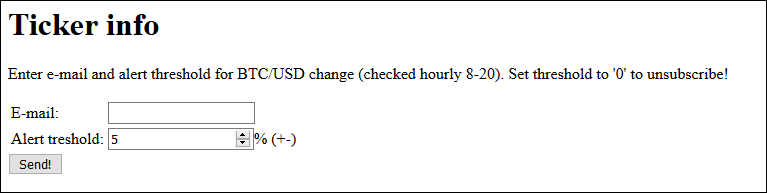
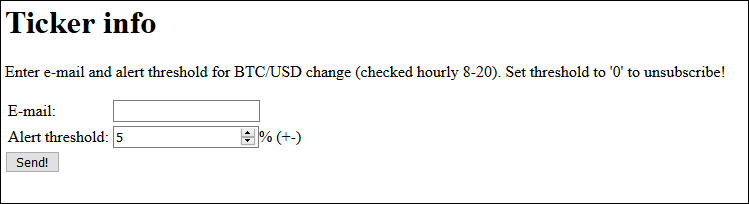
Typo

diff --git a/TickerInformator/Services/SubscriberService.cs b/TickerInformator/Services/SubscriberService.cs
@@ -25,7 +25,7 @@ namespace TickerInformator
                 PartitionKey = emailSplited[1],
                 RowKey = emailSplited[0],
                 Active = true,
-                AlertTreshold = submitInfo.AlertTreshold ?? 0
+                AlertThreshold = submitInfo.AlertThreshold ?? 0
             };
             if (existingInfo != null)
             {
@@ -35,23 +35,23 @@ namespace TickerInformator
             TableOperation subscribersTableOperation = null;
             if (existingInfo != null)
             {
-                if ((submitInfo.AlertTreshold ?? 0) == 0)
+                if ((submitInfo.AlertThreshold ?? 0) == 0)
                 {
-                    await DeleteAlertLevelsOperation(existingInfo.AlertTreshold, submitInfo.Email);
+                    await DeleteAlertLevelsOperation(existingInfo.AlertThreshold, submitInfo.Email);
                     subscribersTableOperation = TableOperation.Delete(existingInfo);
 
                 }
-                else if (submitInfo.AlertTreshold != existingInfo.AlertTreshold)
+                else if (submitInfo.AlertThreshold != existingInfo.AlertThreshold)
                 {
-                    await DeleteAlertLevelsOperation(existingInfo.AlertTreshold, submitInfo.Email);
-                    await InsertAlertLevelsOperation(submitInfo.AlertTreshold.Value, submitInfo.Email);
+                    await DeleteAlertLevelsOperation(existingInfo.AlertThreshold, submitInfo.Email);
+                    await InsertAlertLevelsOperation(submitInfo.AlertThreshold.Value, submitInfo.Email);
                     subscribersTableOperation = TableOperation.Replace(newSubscriberInfo);
 
                 }
             }
             else
             {
-                await InsertAlertLevelsOperation(submitInfo.AlertTreshold.Value, submitInfo.Email);
+                await InsertAlertLevelsOperation(submitInfo.AlertThreshold.Value, submitInfo.Email);
                 subscribersTableOperation = TableOperation.Insert(newSubscriberInfo);
             }
 

diff --git a/TickerInformator/Services/HTMLComposer.cs b/TickerInformator/Services/HTMLComposer.cs
@@ -33,10 +33,10 @@ namespace TickerInformator
     </tr>
     <tr> 
         <td>
-            Alert treshold:
+            Alert threshold:
         </td>
         <td>
-            <input type=""number"" name=""alertTreshold"" min=""0"" max=""99"" value =""5"">% (+-)
+            <input type=""number"" name=""alertThreshold"" min=""0"" max=""99"" value =""5"">% (+-)
         </td>
     </tr>
 </table>
@@ -50,11 +50,11 @@ $( ""#searchForm"" ).submit(function( event ) {
  
     var $form = $( this ),
     email = $form.find( ""input[name='email']"" ).val(),
-    alertTreshold = $form.find( ""input[name='alertTreshold']"" ).val(),
+    alertThreshold = $form.find( ""input[name='alertThreshold']"" ).val(),
     url = $form.attr( ""action"" );
  
     // Send the data using post
-    var posting = $.post( url, JSON.stringify({ ""email"": email, ""alertTreshold"" : alertTreshold}) );
+    var posting = $.post( url, JSON.stringify({ ""email"": email, ""alertThreshold"" : alertThreshold}) );
  
     // Put the results in a div
     posting.done(function( data ) {

diff --git a/TickerInformator/SubmitSubscription.cs b/TickerInformator/SubmitSubscription.cs
@@ -24,8 +24,8 @@ namespace TickerInformator
                 log.LogInformation(requestBody);
 
                 SubmitInfo submitInfo = JsonConvert.DeserializeObject<SubmitInfo>(requestBody);
-                log.LogInformation($"Subscription submited by {submitInfo.Email} with treshold {submitInfo.AlertTreshold}");
-                if (!string.IsNullOrWhiteSpace(submitInfo.Email) && submitInfo.AlertTreshold.HasValue && submitInfo.AlertTreshold.Value >= 0)
+                log.LogInformation($"Subscription submited by {submitInfo.Email} with treshold {submitInfo.AlertThreshold}");
+                if (!string.IsNullOrWhiteSpace(submitInfo.Email) && submitInfo.AlertThreshold.HasValue && submitInfo.AlertThreshold.Value >= 0)
                 {
                     string instanceId = await starter.StartNewAsync("SubscriberDataUpdaterOrchestrator", submitInfo);
                     return new OkObjectResult($"Thank you, {submitInfo.Email}! Please wait for confirmation e-mail.");

diff --git a/TickerInformator/Data/SubmitInfo.cs b/TickerInformator/Data/SubmitInfo.cs
@@ -5,6 +5,6 @@ public partial class SubmitInfo
     [JsonProperty("email")]
     public string Email { get; set; }
 
-    [JsonProperty("alertTreshold")]
-    public int? AlertTreshold { get; set; }
+    [JsonProperty("alertThreshold")]
+    public int? AlertThreshold { get; set; }
 }

diff --git a/TickerInformator/Data/SubscriberInfo.cs b/TickerInformator/Data/SubscriberInfo.cs
@@ -6,6 +6,6 @@ namespace  TickerInformator
     public class SubscriberInfo : TableEntity
     {
         public bool Active {get;set;}
-        public int AlertTreshold { get; set; }
+        public int AlertThreshold { get; set; }
     }
 }
